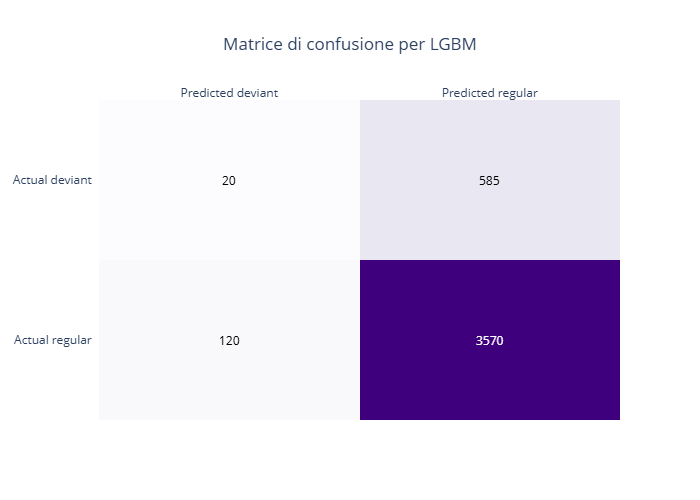
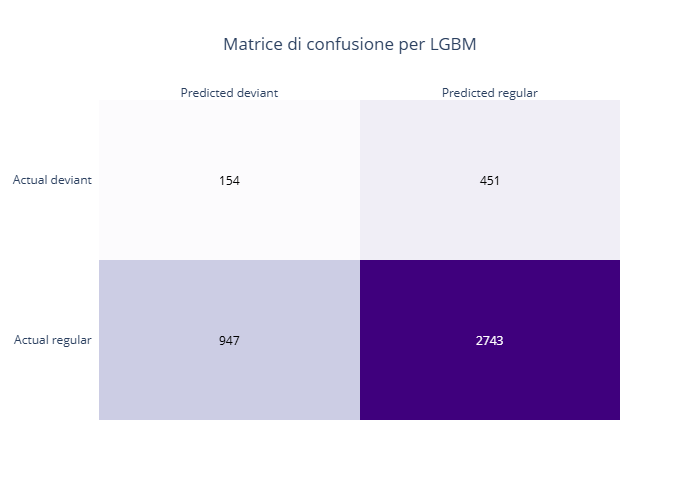
pesi con balanced

diff --git a/classifier/LGBMClassifier.py b/classifier/LGBMClassifier.py
@@ -1,13 +1,15 @@
 from .classifier import Classifier
-from lightgbm import LGBMClassifier as LGBM
+from xgboost import XGBClassifier as XGB
 from typing import override
 from sklearn.preprocessing import LabelEncoder
+import numpy as np
+from sklearn.utils.class_weight import compute_class_weight
 
 
 class LGBMClassifier(Classifier):
     def __init__(self, randomState: int):
         super().__init__()
-        self._model: LGBM = LGBM(random_state = randomState)
+        self._model: XGB = XGB(random_state = randomState)
         self._le = LabelEncoder()
 
     @override
@@ -15,8 +17,11 @@ class LGBMClassifier(Classifier):
         x, y = dataset.separateInputFromOutput()
         xdf = dataset.toPandasDF(x)
         yEncoded = self._le.fit_transform(y)
+        classes = np.unique(yEncoded)
+        weights = compute_class_weight(class_weight='balanced', classes=classes, y=yEncoded)
+        sampleWeights = np.array([weights[label] for label in yEncoded])
         ys = dataset.toPandasSeries(yEncoded)
-        self._model.fit(xdf, ys)
+        self._model.fit(xdf, ys, sample_weight=sampleWeights)
 
     @override
     def predict(self, dfPredict):

diff --git a/main.py b/main.py
@@ -4,6 +4,8 @@ from evaluation import Evaluator
 from plot import plotConfusionMatrix
 from plot import exportMetricsToExcel
 from counterfactual import Counterfactual
+import numpy as np
+from sklearn.utils.class_weight import compute_class_weight
 
 log = Log("sepsis_cases_1.csv", "fileConfig.json")
 trainSetLog, testSetLog = log.split(0.66)
@@ -13,6 +15,9 @@ testSet = testSetLog.transformToLabeledFeatureVectorList()
 randomForest = RandomForestClassifier(42)
 randomForest.fit(trainSet)
 
+# _, y = trainSet.separateInputFromOutput()
+# classes = np.unique(y)
+# weights = compute_class_weight(class_weight='balanced', classes=classes, y=y)
 lgbm = LGBMClassifier(42)
 lgbm.fit(trainSet)
 

diff --git a/classifier/randomForestClassifier.py b/classifier/randomForestClassifier.py
@@ -2,12 +2,14 @@ from .classifier import Classifier
 from sklearn.ensemble import RandomForestClassifier as RFC
 from typing import override
 from sklearn.preprocessing import LabelEncoder
+import numpy as np
+from sklearn.utils.class_weight import compute_class_weight
 
 
 class RandomForestClassifier(Classifier):
     def __init__(self, randomState: int):
         super().__init__()
-        self._model: RFC = RFC(random_state = randomState)
+        self._model: RFC = RFC(random_state = randomState, class_weight='balanced')
         self._le = LabelEncoder()
 
     @override

diff --git a/counterfactual/counterfactual.py b/counterfactual/counterfactual.py
@@ -42,6 +42,7 @@ class Counterfactual:
             features_to_vary = columnsName,
             permitted_range = currentPermittedRange
         )
+        print(type(cf))
         cfDataframe = cf.cf_examples_list[0].final_cfs_df
         cfDataframe['Label'] = self._le.inverse_transform(cfDataframe['Label'].astype(int))
         cfDataframe['Type'] = 'Counterfactual'

diff --git a/UML.md b/UML.md
@@ -7,10 +7,11 @@ classDiagram
     note for List "List è una classe per un tipo di dato in python"
     note for Set "Set è una classe per un tipo di dato in python"
     note for RandomForest "RandomForestClassifier è una classe in python"
-    note for LGBM "LGMBClassifier è una classe in python"
+    note for CatBoost "CatBoostClassifier è una classe in python"
     note for Classifier "fit e predict sono metodi astratti"
     note for LabeledFeatureVectorDataset "DataFrame e Series sono classi della libreria pandas"
     note for Counterfactual "Dice è una classe della libreria dice_ml che calcola i counterfactual"
+    note for Counterfactual "CounterfactualExplanations è una classe della libreria dice_ml che contiene i counterfactual generati"
     Log "1" o-- "1" Dict : << bind >> (str, Trace)
     Trace "1" o-- "1" List : << bind >> (Event)
     Trace "1" o-- "1" str
@@ -41,9 +42,9 @@ classDiagram
     LabeledFeatureVector ..> Set : << use >>
     LabeledFeatureVector --|> FeatureVector : extends
     RandomForest --|> Classifier : extends
-    LGBM --|> Classifier : extends
-    LGBM ..> Set : << bind >> (str)
-    LGBM ..> Set : << use >>
+    CatBoost --|> Classifier : extends
+    CatBoost ..> Set : << bind >> (str)
+    CatBoost ..> Set : << use >>
     RandomForest ..> Set : << bind >> (str)
     RandomForest ..> Set : << use >>
     Classifier ..> LabeledFeatureVectorDataset : << use >> 
@@ -53,8 +54,13 @@ classDiagram
     Evaluator ..> FeatureVector : << use >>
     Trace ..> datetime : << use >>
     Counterfactual ..> LabeledFeatureVectorDataset : << use >> 
-    Counterfactual ..> Classifier : << use >> 
+    Counterfactual "1" o-- "1" Classifier
     Counterfactual ..> FeatureVector : << use >>
+    Counterfactual ..> List : << bind >> (str)
+    LabeledFeatureVectorDataset "1" o-- "1" List : << bind >> (str, LabeledFeatureVector)
+    LabeledFeatureVectorDataset "1" o-- "1" List : << bind >> (str)
+    LabeledFeatureVectorDataset "1" o-- "1" str
+    
 
     namespace data {
         class Event {
@@ -64,7 +70,6 @@ classDiagram
             +activity() str
             +timestamp() datetime
         }
-
         class Trace {
             -label: str
             -events: List < Event >
@@ -76,7 +81,6 @@ classDiagram
             +subtraces() List < Trace >
             +transformToLabeledFeatureVector(dominio: Set < str >) LabeledFeatureVector
         }
-
         class Log {
             -log: Dict < str, Trace >
             -dominio: Set < str >
@@ -88,36 +92,32 @@ classDiagram
             +split(randomState: int, trainSize: float) Log, Log
             +transformToFeatureVectorList() LabeledFeatureVectorDataset
         }
-
         class FeatureVector {
             -vector[1..*]: Int
             +FeatureVector(dimensione: int)
             +incrementValue(pos: Int)
             +featureVector() []Int
         }
-
         class LabeledFeatureVector {
             -label: str
             +LabeledFeatureVector(label: str, dimensione: int)
             +label() str
         }
-
         class LabeledFeatureVectorDataset {
-            -dataset: List < LabeledFeatureVector >
+            -dataset: List < str, LabeledFeatureVector >
             -columnsName: List < str >
             -targetFeatureName: str
             +LabeledFeatureVectorDataset()
-            +addLabeledFeatureVector(vector: LabeledFeatureVector)
+            +addLabeledFeatureVector(caseID: str, vector: LabeledFeatureVector)
             +separateInputFromOutput() List < FeatureVector >, List < str >
             +toPandasDF(data: List < [] >) DataFrame
             +toPandasSeries(data: List < str >) Series
             +dataset() List < LabeledFeatureVector >
             +columnsName() List < str >
             +targetFeatureName() str
+            +selectCaseID(caseID: int) List < str, LabeledFeatureVector >
         }
-
     }
-
     namespace classifier {
         class Classifier {
             << abstract >>
@@ -125,25 +125,21 @@ classDiagram
             +fit(dataset: LabeledFeatureVectorDataset)
             +predict(featureVector: FeatureVector): str
         }
-
         class RandomForest {
             -model: RandomForestClassifier
-            +RandomForest(randomState: int, dominio: Set < str >, targetFeatureName: str)
+            +RandomForest(randomState: int, weights: Dict < str, float >)
             +fit(dataset: LabeledFeatureVectorDataset)
             +predict(featureVector: FeatureVector) str
             +model() RandomForestClassifier
-            
         }
-
-        class LGBM {
-            -model: LGBMClassifier
-            +LGBM(randomState: int, dominio: Set < str >, targetFeatureName: str)
+        class CatBoost {
+            -model: CatBoostClassifier
+            +CatBoost(randomState: int, weights: Dict < str, float >)
             +fit(dataset: LabeledFeatureVectorDataset)
             +predict(featureVector: FeatureVector) str
-            +model() LGBMClassifier
+            +model() CatBoostClassifier
         }
     }
-
     namespace evaluation {
         class Evaluator {
             -actual: List < str >
@@ -156,34 +152,27 @@ classDiagram
             +f1() float
         }
     }
-
     namespace counterfactual {
         class Counterfactual {
             -explainer: Dice
-            -minPermittedRange[]: int
-            -maxPermittedRange[]: int
-            +Counterfactua(dataset: LabeledFeatureVectorDataset, classifier: Classifier, minPermittedRange: []int, maxPermittedRange: []int)
-            +generateCounterfactual(featureVector: FeatureVector, columnsName: List < str >, changeToOpposite: bool, changeToLabel: str) DataFrame
+            -classifier: Classifier
+            +Counterfactua(dataset: LabeledFeatureVectorDataset, classifier: Classifier)
+            +generateCounterfactual(featureVector: FeatureVector, caseID: str, columnsName: List < str >, minPermittedRange: List < int >, maxPermittedRange: List < int >, changeToOpposite: bool, changeToLabel: str) DataFrame
+            -closestCounterfactual(originalVector: FeatureVector, columnsName: List < str >, cf: CounterfactualExplanations) DataFrame
         }
     }
-
     class Dict {
         <<Interface>>
     }
-
     class Set {
         <<Interface>>
     }
-
     class List {
         <<Interface>>
     }
-
     class str {
-
     }
-
     class datetime {
-
     }
+
 ```
